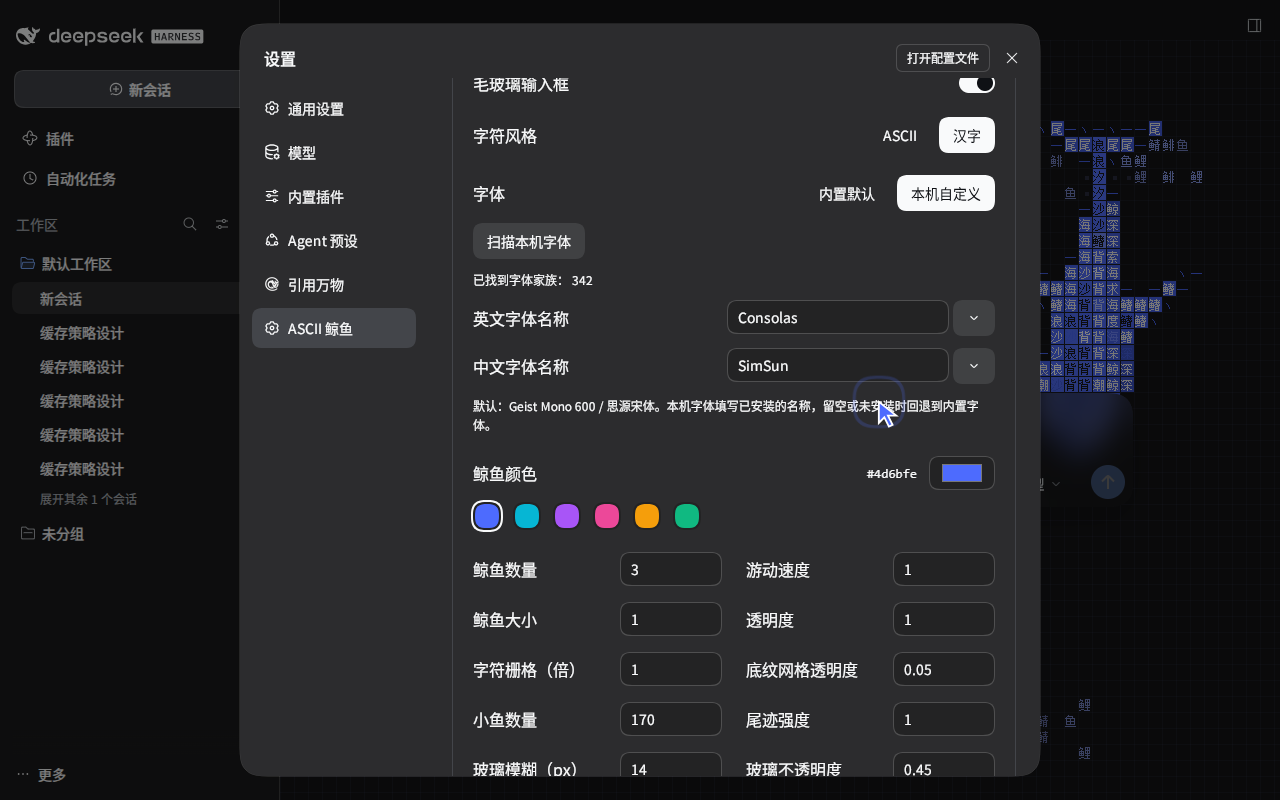
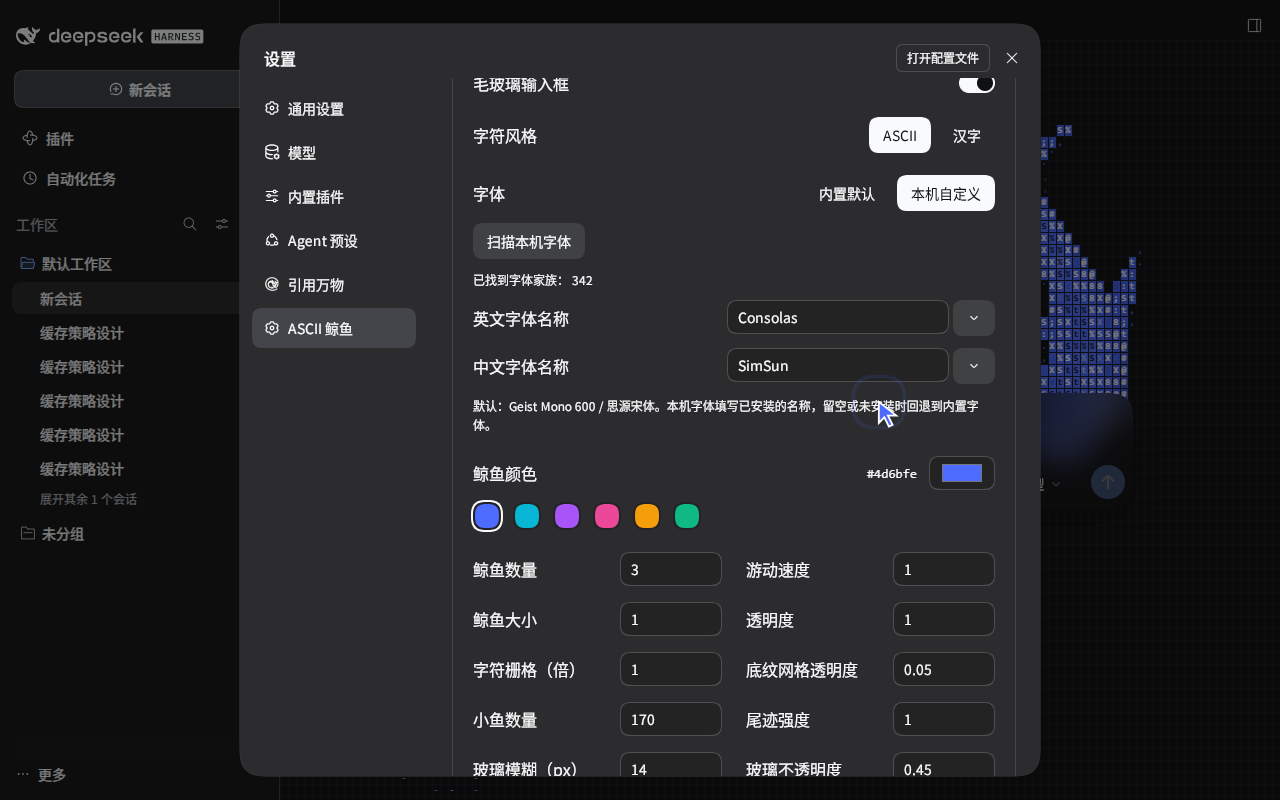
Refine demo presets and simplify README copy

Changed region(s): [[0.8125, 0.1562, 0.9375, 0.5], [0.6562, 0.125, 0.7812, 0.2188]]

diff --git a/README.md b/README.md
@@ -10,8 +10,6 @@
 
 ## 安装
 
-当前 `main` 为 **0.1.1 开发版**，包含汉字、内置字体与本机选字功能；npm 暂保留 **0.1.0**，尚未发布本轮更新。
-
 在 DeepSeek Harness 的插件管理中添加 npm 包 **`dsh-ascii-whales`**，完成后重启相应实例。
 
 Web CLI 用户也可使用：
@@ -22,7 +20,7 @@ dsh plugin --profile web add dsh-ascii-whales
 
 将 `web` 换成目标 Web profile。Desktop 请通过客户端插件管理安装。
 
-已验证宿主：**DSH 0.2.1-rc.2、Windows / Microsoft Edge Web**。插件默认启用，配置入口为 **设置 → ASCII 鲸鱼**。
+插件默认启用，配置入口为 **设置 → ASCII 鲸鱼**。
 
 ## 一片海，两种光
 
@@ -40,9 +38,9 @@ dsh plugin --profile web add dsh-ascii-whales
 
 也可以让汉字入海：**设置 → ASCII 鲸鱼 → 字符风格 → 汉字**。吻部落“吻”，眼睛落“目”，背部落“背”，胸鳍与背鳍落“鳍”，尾鳍落“尾”；其余鲸身由水、海、潮、鲸等字铺开，小鱼化作鱼字旁的游字。字随身体弯曲转向，汉字栅格更宽，也能用“字符栅格”继续调节。
 
-英文默认内置 **Geist Mono 600**，与原项目演示一致；汉字默认内置 **思源宋体**。两套字体只用于动画，随插件离线加载。切换“字体 → 本机自定义”，可分别填写已安装的中英文字体名称，例如 `Consolas`、`方正屏显雅宋简体`；留空或字体不可用时回退到内置字体。本机字体文件不会被上传或打包。
+英文默认内置 **Geist Mono 600**，与原项目演示一致；汉字默认内置 **思源宋体**。两套字体用于动画，随插件离线加载。切换“字体 → 本机自定义”，可分别填写已安装的中英文字体名称，例如 `Consolas`、`方正屏显雅宋简体`。
 
-点击 **扫描本机字体** 后，可从官方下拉菜单中选择；首次扫描需允许浏览器访问字体。暂不支持扫描的浏览器仍可手动填写。
+点击 **扫描本机字体**，允许浏览器访问字体后，即可从下拉菜单中选择，也可直接输入字体名称。
 
 ![汉字 · 浅色](https://raw.githubusercontent.com/Chael-Chael/dsh-ascii-whales/main/docs/media/hanzi-light.gif)
 ![汉字 · 深色](https://raw.githubusercontent.com/Chael-Chael/dsh-ascii-whales/main/docs/media/hanzi-dark.gif)
@@ -69,9 +67,7 @@ dsh plugin --profile web add dsh-ascii-whales
 
 默认三条鲸鱼的相对大小为 100%、70%、84%。ASCII 小鱼以短横字符呈现，汉字模式使用鱼、鲤、鲭、鲱，尺寸随字符栅格一起变化。
 
-**恢复默认** 使用 DSH 官方主按钮，随深浅主题切换，可一键回到最初的蓝色海面。偏好保存在当前浏览器，不会跨浏览器或不同 Web 地址同步。遵循系统“减少动态效果”设置，后台标签页暂停动画。很细的栅格配合大量鲸鱼或高倍速度会增加渲染开销。
-
-从 0.1.0 升级会保留已有的透明度偏好；想使用新的完整主色效果，可将动画透明度设为 **1**，或点击 **恢复默认**。
+**恢复默认** 使用 DSH 官方主按钮，随深浅主题切换，可一键回到最初的蓝色海面。偏好保存在当前浏览器。动画遵循系统“减少动态效果”设置，并在后台标签页暂停。
 
 ![可视化颜色与官方设置控件](https://raw.githubusercontent.com/Chael-Chael/dsh-ascii-whales/main/docs/media/settings.gif)
 
@@ -87,7 +83,7 @@ dsh plugin --profile web add dsh-ascii-whales
 
 ## 从哪里游来
 
-直接使用并改造 [stackedlol/ascii-sharks](https://github.com/stackedlol/ascii-sharks) 的源码，**不是重新仿写一套动画**。原作者完成了鱼群模拟、柔性身体、字符栅格与光影渲染；本项目在其基础上加入鲸鱼形态、DSH 集成、主题适配与可调参数。
+基于 [stackedlol/ascii-sharks](https://github.com/stackedlol/ascii-sharks) 的源码改造。原作者完成了鱼群模拟、柔性身体、字符栅格与光影渲染；本项目在其基础上加入鲸鱼形态、DSH 集成、主题适配与可调参数。
 
 固定的上游版本、改动范围与署名见 [THIRD_PARTY_NOTICES.md](THIRD_PARTY_NOTICES.md)。毛玻璃实现参考了 [dsh-glass-theme](https://github.com/cnayu/dsh-glass-theme) 与 [dsh-skin-glass](https://github.com/noexcs/dsh-skin-glass) 的相关思路。
 
@@ -99,6 +95,6 @@ npm run check
 npm pack
 ```
 
-构建产物自带动画代码，不会在运行时访问上游仓库或 CDN。插件本身不读取、发送聊天内容，也不调用模型。
+动画与字体随插件一起打包，可离线加载。
 
-测试与 GIF 录制见 [docs/development.md](docs/development.md)，当前验收边界见 [docs/validation.md](docs/validation.md)。DSH 暂无公开背景插槽，插件使用局部 DOM 适配；宿主升级后可能需要跟进。其他改写输入框的主题可能产生样式冲突，可先关闭本插件的毛玻璃选项。
+测试与 GIF 录制见 [开发文档](docs/development.md)，测试结果见 [验证记录](docs/validation.md)。

diff --git a/README.en.md b/README.en.md
@@ -10,15 +10,13 @@ A blue ocean unfolds behind each empty chat. Schools of tiny fish scatter betwee
 
 ## Install
 
-`main` is the **0.1.1 development version**, including Hanzi and bundled/custom fonts. npm remains at **0.1.0**; this update has not been published there yet.
-
 Add **`dsh-ascii-whales`** through DeepSeek Harness's plugin manager, then restart that instance. For a Web profile:
 
 ```sh
 dsh plugin --profile web add dsh-ascii-whales
 ```
 
-Open **Settings → ASCII Whales**. Verified with DSH **0.2.1-rc.2**, Windows and Microsoft Edge Web. Use Desktop's own plugin manager for Desktop installations.
+Open **Settings → ASCII Whales**. Use Desktop's own plugin manager for Desktop installations.
 
 ## Your ocean
 
@@ -28,9 +26,9 @@ Your chosen color anchors the whale body's midtones, with gentle shadows and hig
 
 Choose **Settings → ASCII Whales → Character style → Hanzi** for Chinese characters: 吻 at the snout, 目 at the eyes, 背 along the back, 鳍 on fins and 尾 on tail flukes. Water and ocean characters fill the body; fish become 鱼, 鲤, 鲭 and 鲱. These labels follow the bending body. Hanzi use wider cells, adjustable with cell size.
 
-The plugin embeds **Geist Mono 600** for ASCII, matching the upstream demo, and **Source Han Serif** for Hanzi. These animation-only subsets load offline. Choose **Font → Local custom** to enter separate installed English and Chinese font names. Blank or unavailable names fall back to the bundled font. Local font files are never uploaded or packaged.
+The plugin embeds **Geist Mono 600** for ASCII, matching the upstream demo, and **Source Han Serif** for Hanzi. These animation fonts load offline. Choose **Font → Local custom** to enter separate installed English and Chinese font names.
 
-**Scan local fonts** fills the official dropdown menus after browser permission is granted. Manual entry remains available when scanning is unsupported.
+Click **Scan local fonts**, allow browser access, then choose from the dropdown menus. You can also type a font name directly.
 
 ![Hanzi · light](https://raw.githubusercontent.com/Chael-Chael/dsh-ascii-whales/main/docs/media/hanzi-light.gif)
 ![Hanzi · dark](https://raw.githubusercontent.com/Chael-Chael/dsh-ascii-whales/main/docs/media/hanzi-dark.gif)
@@ -59,9 +57,7 @@ Size, cell size, speed and wake step by **0.05** below 1 and **0.1** from 1 upwa
 
 Set grid opacity, fish count or wake to zero to hide it. The default whales have relative sizes of 100%, 70% and 84%; the size control scales them together. Small fish are dashes in ASCII mode and fish characters in Hanzi mode; their dimensions follow the character grid.
 
-Settings use official DSH controls. **Restore defaults** uses the theme-aware primary button and brings back the original blue ocean. Preferences stay in this browser/origin. Reduced-motion preferences are respected; animation pauses in background tabs. Fine grids with many whales or high speeds increase rendering cost.
-
-Upgrading from 0.1.0 preserves your saved opacity. Set scene opacity to **1**, or use **Restore defaults**, to see the new full-color appearance.
+Settings use official DSH controls. **Restore defaults** uses the theme-aware primary button and brings back the original blue ocean. Preferences are saved in this browser. The animation follows reduced-motion preferences and pauses in background tabs.
 
 ![Settings and colors](https://raw.githubusercontent.com/Chael-Chael/dsh-ascii-whales/main/docs/media/settings.gif)
 
@@ -69,7 +65,7 @@ Upgrading from 0.1.0 preserves your saved opacity. Set scene opacity to **1**, o
 
 ## Source and development
 
-This directly adapts **[stackedlol/ascii-sharks](https://github.com/stackedlol/ascii-sharks)**, retaining its simulation, flexible spines, ASCII rasterizer and lighting. The whale shape, DSH integration, palettes and controls are adaptations. See [source attribution](THIRD_PARTY_NOTICES.md) for the pinned commit and ownership scope.
+This adapts **[stackedlol/ascii-sharks](https://github.com/stackedlol/ascii-sharks)**, retaining its simulation, flexible spines, ASCII rasterizer and lighting. The whale shape, DSH integration, palettes and controls are adaptations. See [source attribution](THIRD_PARTY_NOTICES.md) for the pinned commit and credits.
 
 ```sh
 npm ci --legacy-peer-deps
@@ -77,4 +73,4 @@ npm run check
 npm pack
 ```
 
-The bundled animation needs no CDN, model calls or chat content. See [development](docs/development.md) and [validation](docs/validation.md). The scoped DOM adapter may need updates when DSH changes. Composer themes can conflict; disable this plugin's glass if necessary. Desktop window validation is separate from Web validation.
+Animation and fonts are bundled for offline loading. See [development and recording](docs/development.md) and [test results](docs/validation.md).

diff --git a/docs/validation.md b/docs/validation.md
@@ -1,6 +1,6 @@
-# 0.1.1 development candidate · 2026-10-21
+# 0.1.1 validation · 2026-10-21
 
-Selected-color midtones, anatomical Hanzi, bundled/local fonts and expanded controls. This update is available from the GitHub source; npm publication remains deferred at the user's request.
+Selected-color midtones, anatomical Hanzi, bundled/local fonts and expanded controls. npm publication is handled by the maintainer.
 
[1 lines of base64/hex data omitted]
 
@@ -12,8 +12,8 @@ Tested local tarball: `dsh-ascii-whales@0.1.1`, SHA-1 `3dfec22ebdac3f58a77465b17
 | Bundled/local fonts | PASS | Embedded Geist Mono 600 and Source Han Serif load offline; real font enumeration returns 903 faces / 342 families on this machine; local Founder font selection and missing-name fallback verified through browser platform-font inspection |
 | Official settings controls | PASS | Gray toolbar scan/arrow buttons, official SVG chevron and primary reset; reset is dark in light mode and white in dark mode |
 | Fresh package installation | PASS | Installed the tarball into an isolated profile; client and both OFL files match the build; demo loads this installed candidate |
-| Public recordings | PASS | Six real Web GIFs: ASCII light/dark, Hanzi light/dark, settings and local font picker; 960×600, 15 fps; zero page errors |
-| Published npm 0.1.1 | NOT_RUN | Publication deferred; npm remains on 0.1.0 |
+| Public recordings | PASS | Six real Web GIFs: ASCII light/dark, Hanzi light/dark at 0.8× grid, settings and local font picker in ASCII mode; 960×600, 15 fps; zero page errors |
+| Published npm 0.1.1 | NOT_RUN | Registry installation not tested in this run; publication is handled by the maintainer |
 | Desktop / other browsers | NOT_RUN | No Desktop profile change or restart; no cross-browser claim |
 
 Public recordings use the separate synthetic-data demo environment; private QA captures and token-bearing logs stay under ignored `.local/`. Fine grids combined with many whales or high speeds can be expensive; no frame-rate guarantee is made for those extremes. The native operating-system color-picker popup is not automated.

diff --git a/docs/development.md b/docs/development.md
@@ -28,4 +28,4 @@ node scripts/browser-check.mjs --record
 
 Requires Edge, Playwright, ffmpeg and ffprobe. The instance file contains `{ "url": "..." }`. Keep token-bearing instance files and logs local. Never use the everyday Desktop profile for recording or automated UI experiments.
 
-Recordings use a 1280×800 viewport and export 960×600, 15 fps looping GIFs with pointer/click cues. The six scenes cover ASCII light/dark, Hanzi light/dark, settings and the local font picker. The recording context grants local-font access to its isolated browser context and selects installed Consolas/SimSun fonts. Inspect both themes and settings captures after every visual change. `docs/media/manifest.json` records segment timing. User and agent data are not suitable public fixtures.
+Recordings use a 1280×800 viewport and export 960×600, 15 fps looping GIFs with pointer/click cues. The six scenes cover ASCII light/dark, Hanzi light/dark, settings and the local font picker. Hanzi scenes use a 0.8× character grid; both settings and font-picker demos use ASCII mode. These are recording presets, not changes to plugin defaults. The recording context grants local-font access to its isolated browser context and selects installed Consolas/SimSun fonts. Inspect both themes and settings captures after every visual change. `docs/media/manifest.json` records segment timing and character modes. User and agent data are not suitable public fixtures.
